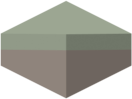
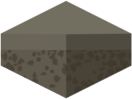
new junkyard art

diff --git a/data/junkyard-props.tsx b/data/junkyard-props.tsx
@@ -1,0 +1,161 @@
+<?xml version="1.0" encoding="UTF-8"?>
+<tileset version="1.4" tiledversion="1.4.2" name="junkyard-props" tilewidth="512" tileheight="512" tilecount="52" columns="0">
+ <tileoffset x="-192" y="170"/>
+ <grid orientation="orthogonal" width="1" height="1"/>
+ <tile id="0">
+  <image width="512" height="512" source="junkyard_isometriclandscape/crater_NE.png"/>
+ </tile>
+ <tile id="1">
+  <image width="512" height="512" source="junkyard_isometriclandscape/crater_NW.png"/>
+ </tile>
+ <tile id="2">
+  <image width="512" height="512" source="junkyard_isometriclandscape/crater_SE.png"/>
+ </tile>
+ <tile id="3">
+  <image width="512" height="512" source="junkyard_isometriclandscape/crater_SW.png"/>
+ </tile>
+ <tile id="4">
+  <image width="512" height="512" source="junkyard_isometriclandscape/craterLarge_NE.png"/>
+ </tile>
+ <tile id="5">
+  <image width="512" height="512" source="junkyard_isometriclandscape/craterLarge_NW.png"/>
+ </tile>
+ <tile id="6">
+  <image width="512" height="512" source="junkyard_isometriclandscape/craterLarge_SE.png"/>
+ </tile>
+ <tile id="7">
+  <image width="512" height="512" source="junkyard_isometriclandscape/craterLarge_SW.png"/>
+ </tile>
+ <tile id="8">
+  <image width="512" height="512" source="junkyard_isometriclandscape/fence_NE.png"/>
+ </tile>
+ <tile id="9">
+  <image width="512" height="512" source="junkyard_isometriclandscape/fence_NW.png"/>
+ </tile>
+ <tile id="10">
+  <image width="512" height="512" source="junkyard_isometriclandscape/fence_SE.png"/>
+ </tile>
+ <tile id="11">
+  <image width="512" height="512" source="junkyard_isometriclandscape/fence_SW.png"/>
+ </tile>
+ <tile id="12">
+  <image width="512" height="512" source="junkyard_isometriclandscape/fenceBroken_NE.png"/>
+ </tile>
+ <tile id="13">
+  <image width="512" height="512" source="junkyard_isometriclandscape/fenceBroken_NW.png"/>
+ </tile>
+ <tile id="14">
+  <image width="512" height="512" source="junkyard_isometriclandscape/fenceBroken_SE.png"/>
+ </tile>
+ <tile id="15">
+  <image width="512" height="512" source="junkyard_isometriclandscape/fenceBroken_SW.png"/>
+ </tile>
+ <tile id="16">
+  <image width="512" height="512" source="junkyard_isometriclandscape/fenceCorner_NE.png"/>
+ </tile>
+ <tile id="17">
+  <image width="512" height="512" source="junkyard_isometriclandscape/fenceCorner_NW.png"/>
+ </tile>
+ <tile id="18">
+  <image width="512" height="512" source="junkyard_isometriclandscape/fenceCorner_SE.png"/>
+ </tile>
+ <tile id="19">
+  <image width="512" height="512" source="junkyard_isometriclandscape/fenceCorner_SW.png"/>
+ </tile>
+ <tile id="20">
+  <image width="512" height="512" source="junkyard_isometriclandscape/fenceCornerCurved_NE.png"/>
+ </tile>
+ <tile id="21">
+  <image width="512" height="512" source="junkyard_isometriclandscape/fenceCornerCurved_NW.png"/>
+ </tile>
+ <tile id="22">
+  <image width="512" height="512" source="junkyard_isometriclandscape/fenceCornerCurved_SE.png"/>
+ </tile>
+ <tile id="23">
+  <image width="512" height="512" source="junkyard_isometriclandscape/fenceCornerCurved_SW.png"/>
+ </tile>
+ <tile id="24">
+  <image width="512" height="512" source="junkyard_isometriclandscape/machine_barrel_NE.png"/>
+ </tile>
+ <tile id="25">
+  <image width="512" height="512" source="junkyard_isometriclandscape/machine_barrel_NW.png"/>
+ </tile>
+ <tile id="26">
+  <image width="512" height="512" source="junkyard_isometriclandscape/machine_barrel_SE.png"/>
+ </tile>
+ <tile id="27">
+  <image width="512" height="512" source="junkyard_isometriclandscape/machine_barrel_SW.png"/>
+ </tile>
+ <tile id="28">
+  <image width="512" height="512" source="junkyard_isometriclandscape/machine_barrelLarge_NE.png"/>
+ </tile>
+ <tile id="29">
+  <image width="512" height="512" source="junkyard_isometriclandscape/machine_barrelLarge_NW.png"/>
+ </tile>
+ <tile id="30">
+  <image width="512" height="512" source="junkyard_isometriclandscape/machine_barrelLarge_SE.png"/>
+ </tile>
+ <tile id="31">
+  <image width="512" height="512" source="junkyard_isometriclandscape/machine_barrelLarge_SW.png"/>
+ </tile>
+ <tile id="32">
+  <image width="512" height="512" source="junkyard_isometriclandscape/machine_generator_NE.png"/>
+ </tile>
+ <tile id="33">
+  <image width="512" height="512" source="junkyard_isometriclandscape/machine_generator_NW.png"/>
+ </tile>
+ <tile id="34">
+  <image width="512" height="512" source="junkyard_isometriclandscape/machine_generator_SE.png"/>
+ </tile>
+ <tile id="35">
+  <image width="512" height="512" source="junkyard_isometriclandscape/machine_generator_SW.png"/>
+ </tile>
+ <tile id="36">
+  <image width="512" height="512" source="junkyard_isometriclandscape/meteor_detailed_NE.png"/>
+ </tile>
+ <tile id="37">
+  <image width="512" height="512" source="junkyard_isometriclandscape/meteor_detailed_NW.png"/>
+ </tile>
+ <tile id="38">
+  <image width="512" height="512" source="junkyard_isometriclandscape/meteor_detailed_SE.png"/>
+ </tile>
+ <tile id="39">
+  <image width="512" height="512" source="junkyard_isometriclandscape/meteor_detailed_SW.png"/>
+ </tile>
+ <tile id="40">
+  <image width="512" height="512" source="junkyard_isometriclandscape/meteor_half_NE.png"/>
+ </tile>
+ <tile id="41">
+  <image width="512" height="512" source="junkyard_isometriclandscape/meteor_half_NW.png"/>
+ </tile>
+ <tile id="42">
+  <image width="512" height="512" source="junkyard_isometriclandscape/meteor_half_SE.png"/>
+ </tile>
+ <tile id="43">
+  <image width="512" height="512" source="junkyard_isometriclandscape/meteor_half_SW.png"/>
+ </tile>
+ <tile id="44">
+  <image width="512" height="512" source="junkyard_isometriclandscape/meteor_NE.png"/>
+ </tile>
+ <tile id="45">
+  <image width="512" height="512" source="junkyard_isometriclandscape/meteor_NW.png"/>
+ </tile>
+ <tile id="46">
+  <image width="512" height="512" source="junkyard_isometriclandscape/meteor_SE.png"/>
+ </tile>
+ <tile id="47">
+  <image width="512" height="512" source="junkyard_isometriclandscape/meteor_SW.png"/>
+ </tile>
+ <tile id="48">
+  <image width="512" height="512" source="junkyard_isometriclandscape/rocks_NE.png"/>
+ </tile>
+ <tile id="49">
+  <image width="512" height="512" source="junkyard_isometriclandscape/rocks_NW.png"/>
+ </tile>
+ <tile id="50">
+  <image width="512" height="512" source="junkyard_isometriclandscape/rocks_SE.png"/>
+ </tile>
+ <tile id="51">
+  <image width="512" height="512" source="junkyard_isometriclandscape/rocks_SW.png"/>
+ </tile>
+</tileset>
